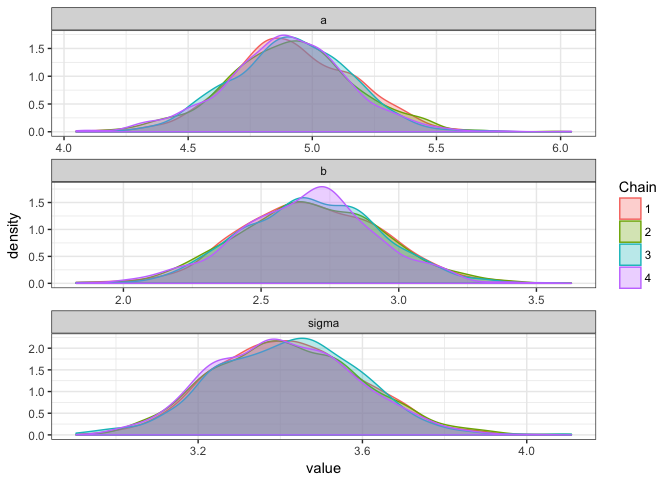
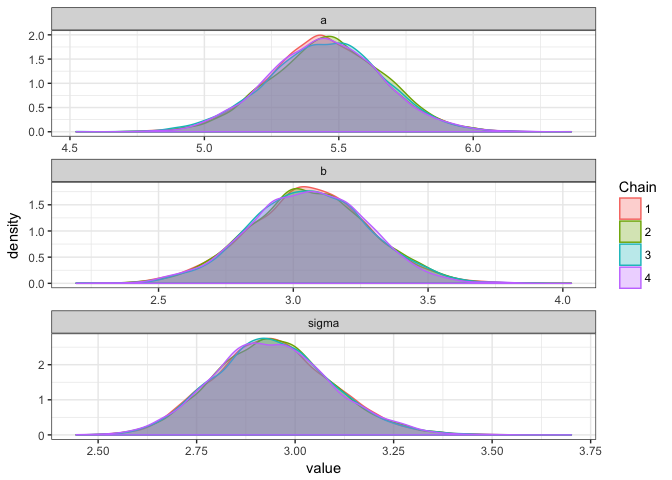
updated with more iterations

diff --git a/code/compare.md b/code/compare.md
@@ -1,7 +1,7 @@
 Intro to stan
 ================
 Tim Szewczyk
-Wed Sep 27 18:39:24 2017
+Wed Sep 27 18:45:01 2017
 
 ``` r
 ## Introduction to stan for Allen lab meeting on 2017 Oct 19. This script
@@ -57,18 +57,18 @@ summary(out_lm)
     ## 
     ## Residuals:
     ##     Min      1Q  Median      3Q     Max 
-    ## -8.5374 -2.3241 -0.0491  2.3277  9.2617 
+    ## -7.7520 -2.0044  0.1478  2.0878  7.3943 
     ## 
     ## Coefficients:
     ##             Estimate Std. Error t value Pr(>|t|)    
-    ## (Intercept)   4.9198     0.2403   20.47   <2e-16 ***
-    ## x             2.6771     0.2473   10.83   <2e-16 ***
+    ## (Intercept)   5.4559     0.2080   26.23   <2e-16 ***
+    ## x             3.0626     0.2216   13.82   <2e-16 ***
     ## ---
     ## Signif. codes:  0 '***' 0.001 '**' 0.01 '*' 0.05 '.' 0.1 ' ' 1
     ## 
-    ## Residual standard error: 3.397 on 198 degrees of freedom
-    ## Multiple R-squared:  0.3719, Adjusted R-squared:  0.3687 
-    ## F-statistic: 117.2 on 1 and 198 DF,  p-value: < 2.2e-16
+    ## Residual standard error: 2.934 on 198 degrees of freedom
+    ## Multiple R-squared:  0.4909, Adjusted R-squared:  0.4884 
+    ## F-statistic:   191 on 1 and 198 DF,  p-value: < 2.2e-16
 
 ``` r
 par(mfrow=c(2,2))
@@ -95,26 +95,26 @@ lines(new.x$x, pred.lm[,3], col="blue", lty=2)
 
 ``` r
 stan_d <- list(n=n, x=sim.df$x, y=sim.df$y)
-out_stan <- stan(file=here("code", "lm.stan"), data=stan_d)
+out_stan <- stan(file=here("code", "lm.stan"), data=stan_d, iter=10000)
 out_stan
 ```
 
     ## Inference for Stan model: lm.
-    ## 4 chains, each with iter=2000; warmup=1000; thin=1; 
-    ## post-warmup draws per chain=1000, total post-warmup draws=4000.
+    ## 4 chains, each with iter=10000; warmup=5000; thin=1; 
+    ## post-warmup draws per chain=5000, total post-warmup draws=20000.
     ## 
     ##          mean se_mean   sd    2.5%     25%     50%     75%   97.5% n_eff
-    ## a        4.91    0.00 0.25    4.42    4.75    4.91    5.07    5.40  3588
-    ## b        2.68    0.00 0.25    2.19    2.51    2.68    2.85    3.17  3427
-    ## sigma    3.42    0.00 0.17    3.10    3.29    3.41    3.53    3.75  3092
-    ## lp__  -345.11    0.03 1.27 -348.27 -345.70 -344.79 -344.20 -343.67  2087
+    ## a        5.45    0.00 0.21    5.04    5.31    5.45    5.59    5.87 17553
+    ## b        3.06    0.00 0.22    2.62    2.91    3.06    3.21    3.49 18614
+    ## sigma    2.94    0.00 0.15    2.67    2.84    2.94    3.04    3.25 17972
+    ## lp__  -315.74    0.01 1.23 -318.91 -316.30 -315.42 -314.84 -314.33  9877
     ##       Rhat
     ## a        1
     ## b        1
     ## sigma    1
     ## lp__     1
     ## 
-    ## Samples were drawn using NUTS(diag_e) at Wed Sep 27 18:39:45 2017.
+    ## Samples were drawn using NUTS(diag_e) at Wed Sep 27 18:45:17 2017.
     ## For each parameter, n_eff is a crude measure of effective sample size,
     ## and Rhat is the potential scale reduction factor on split chains (at 
     ## convergence, Rhat=1).
